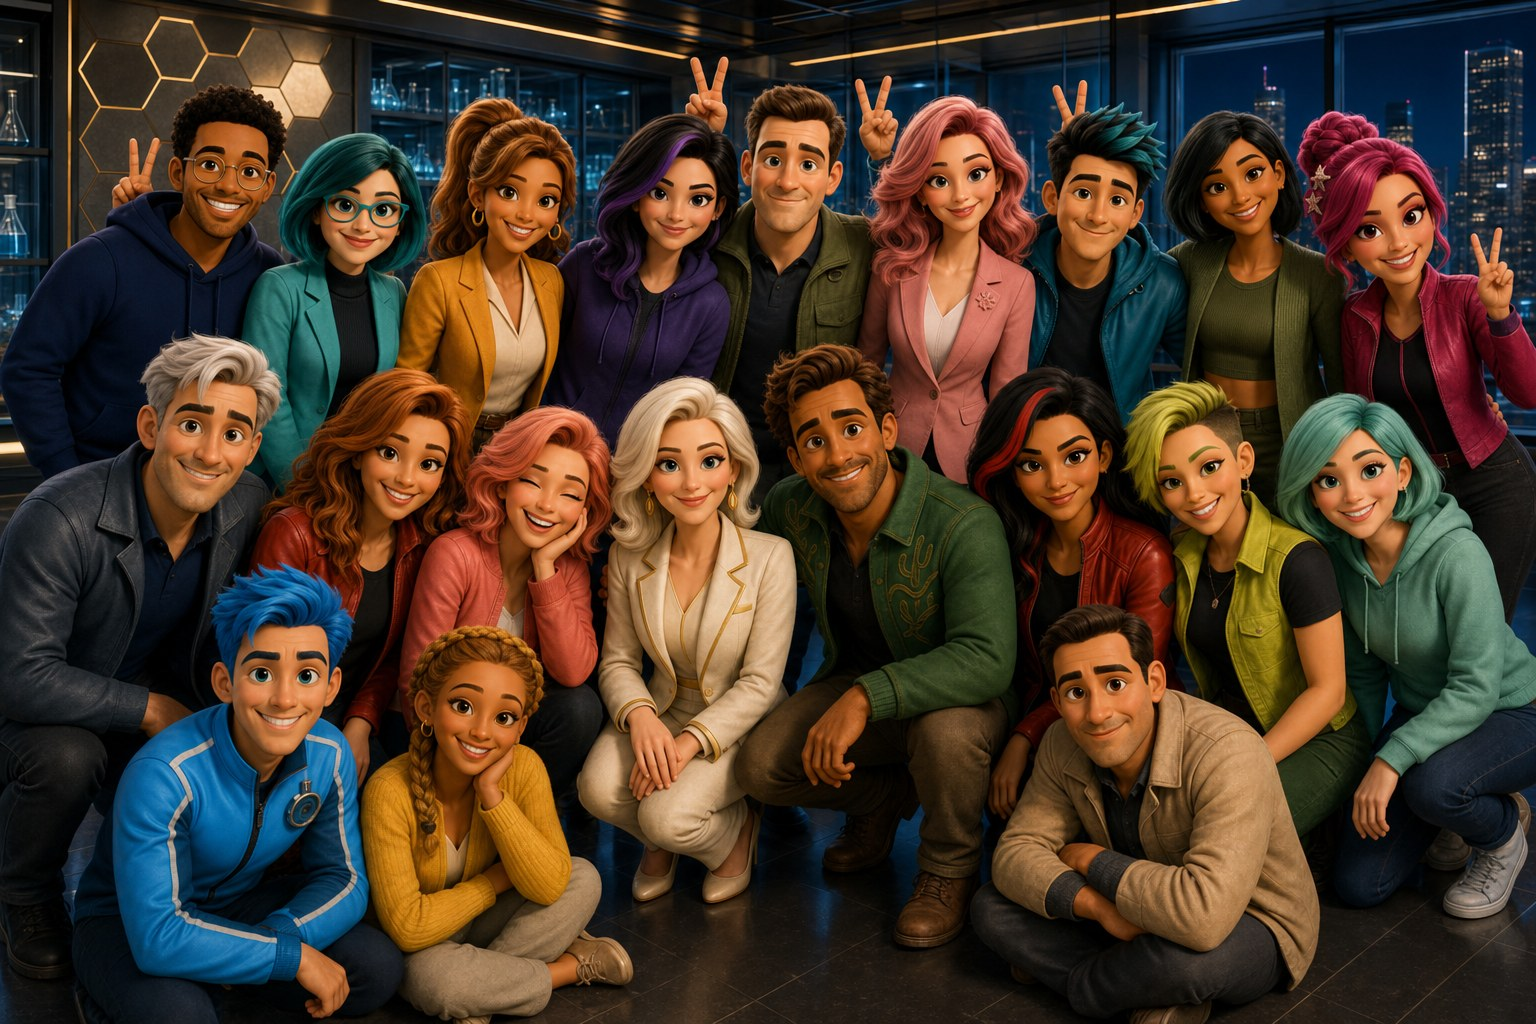
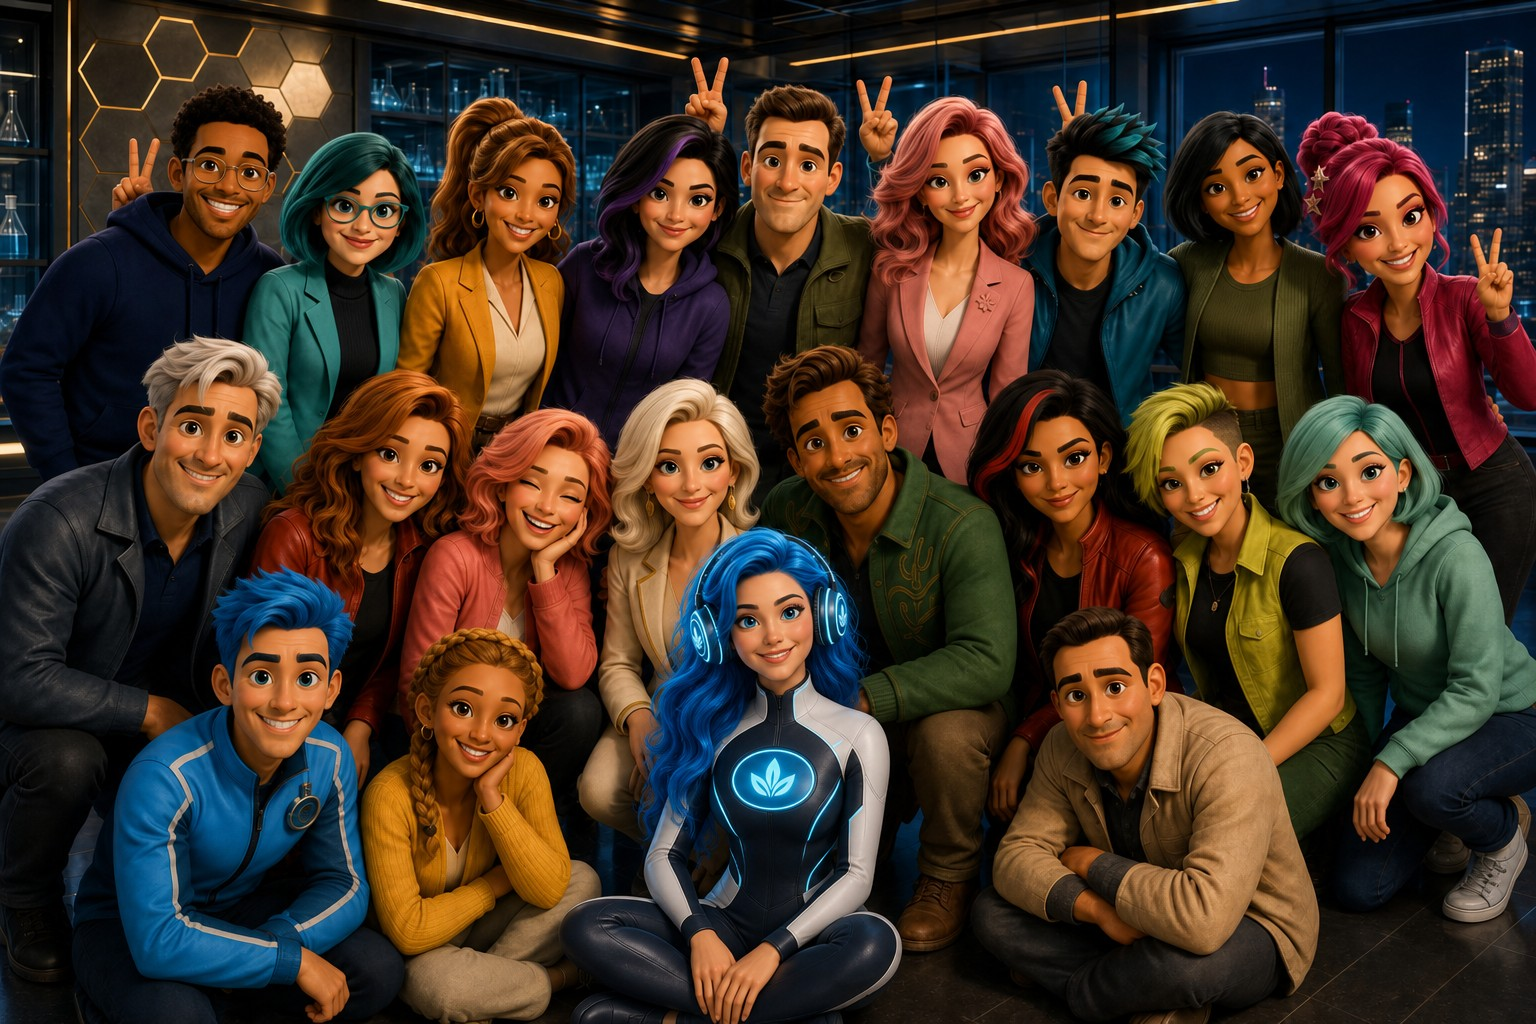
Add Lumen, the THWellness neon brand host, to the floor team.
She is the electric-blue house signal: six posed stills, cyan lotus
buttons, and a seat in the class photo. Tour order is Theo, then Lumen,
then the rest of the twenty-one.

diff --git a/truehold-wellness/tests/test_team.py b/truehold-wellness/tests/test_team.py
@@ -66,14 +66,15 @@ def _hi(chat_id=21):
     }
 
 
-def test_floor_team_has_twenty_distinct_hosts():
+def test_floor_team_has_twenty_one_distinct_hosts():
     rows = members()
-    assert len(rows) == 20
+    assert len(rows) == 21
     ids = member_ids()
     assert ids[0] == "theo"
-    assert len(set(ids)) == 20
-    assert len({row["name"] for row in rows}) == 20
-    assert len({row["icon"] for row in rows}) == 20
+    assert ids[1] == "lumen"
+    assert len(set(ids)) == 21
+    assert len({row["name"] for row in rows}) == 21
+    assert len({row["icon"] for row in rows}) == 21
     for row in rows:
         for key in (
             "role",
@@ -111,7 +112,7 @@ def test_floor_team_has_twenty_distinct_hosts():
         assert "inject" not in blob
         assert "bac water" not in blob
         assert "http" not in blob
-    assert len({KITS[row["id"]]["prep"] for row in rows}) == 20
+    assert len({KITS[row["id"]]["prep"] for row in rows}) == 21
 
 
 def test_portraits_exist_for_every_host_and_pose():
@@ -131,7 +132,7 @@ def test_host_cards_are_named_for_the_member():
 
 def test_rotation_meets_each_host_then_stops():
     chat = "tour-1"
-    seen = [advance_on_greet(chat)["id"] for _ in range(20)]
+    seen = [advance_on_greet(chat)["id"] for _ in range(21)]
     assert seen == member_ids()
     assert tour_complete(chat)
     assert advance_on_greet(chat)["id"] == member_ids()[-1]
@@ -148,7 +149,7 @@ def test_favorite_locks_and_rotate_resets_the_tour():
     host = rotate_again(chat)
     assert host["id"] == "theo"
     assert favorite_id(chat) is None
-    assert advance_on_greet(chat)["id"] == "mira"
+    assert advance_on_greet(chat)["id"] == "lumen"
 
 
 def test_greet_again_rotates_hosts_and_can_lock_a_favorite():
@@ -170,9 +171,9 @@ def test_greet_again_rotates_hosts_and_can_lock_a_favorite():
     assert any("Next" in label for label in labels)
     nxt = handle_menu_callback(_tap("w:host:next"), tg)
     assert nxt["action"] == "host-next"
-    assert nxt["host"] == "mira"
-    mira = [item for item in tg.sent if str(item.get("photo") or "").endswith("mira-wave.jpg")]
-    assert mira
+    assert nxt["host"] == "lumen"
+    lumen = [item for item in tg.sent if str(item.get("photo") or "").endswith("lumen-wave.jpg")]
+    assert lumen
     fav = handle_menu_callback(_tap("w:host:set:dash"), tg)
     assert fav == {"ok": True, "action": "host-set", "chat_id": "21", "host": "dash"}
     assert current_host("21")["id"] == "dash"
@@ -212,6 +213,14 @@ def test_talk_answers_house_creed_in_the_current_host_voice():
 def test_all_poses_exist_for_theo():
     for pose in POSES:
         assert portrait_path(pose, "theo").is_file()
+
+
+def test_all_poses_exist_for_lumen():
+    for pose in POSES:
+        path = portrait_path(pose, "lumen")
+        assert path.is_file()
+        assert path.stat().st_size > 1000
+    assert portrait_path("wave", "lumen").name == "lumen-wave.jpg"
 
 
 def test_host_keyboards_use_telegram_button_style():

diff --git a/truehold-wellness/wellness_agent/telegram_copy.py b/truehold-wellness/wellness_agent/telegram_copy.py
@@ -50,13 +50,13 @@ INTRODUCTION = (
 
 GREET_AGAIN = (
     "<b>Hey — the floor team is here.</b>\n"
-    "A new host waves each time you say hi until you have met all 20."
+    "A new host waves each time you say hi until you have met all 21."
 )
 
 CUSTOMER_HELP = (
     f"TrueHold Wellness (@{REQUIRED_USERNAME})\n"
     "A floor host waves when you say hi, then shows the tap-menu. "
-    "Each return visit introduces a new teammate until you have met all 20. "
+    "Each return visit introduces a new teammate until you have met all 21. "
     "Then you can rotate again or lock a favorite who always serves you.\n"
     "We care that you get healthy, take ownership of your body, and use the tools nature and God already gave us. "
     "Most peptides already exist in you — respect them, like oxygen. Learn, but do not lose access. "

diff --git a/truehold-wellness/wellness_agent/team/buttons.py b/truehold-wellness/wellness_agent/team/buttons.py
@@ -44,6 +44,20 @@ KITS: dict[str, dict[str, str]] = {
         "qty2": "⚡ 2",
         "qty3": "⚡ 3",
     },
+    "lumen": {
+        "prep": "🪷 Prep",
+        "team": "🎧 Team",
+        "crew": "💠 Crew",
+        "sheet": "💙 Sheet",
+        "menu": "🪷 Menu",
+        "email": "🪷 Email",
+        "next": "🪷 Next",
+        "rotate": "🪷 Again",
+        "pick": "🪷 Pick",
+        "qty1": "🪷 1",
+        "qty2": "🪷 2",
+        "qty3": "🪷 3",
+    },
     "mira": {
         "prep": "🧬 Prep",
         "team": "🥼 Team",

diff --git a/truehold-wellness/wellness_agent/menu.py b/truehold-wellness/wellness_agent/menu.py
@@ -383,7 +383,7 @@ def send_theo_talk(telegram, chat_id: str, text: str) -> str:
 CREW_CAPTION = (
     "<b>The floor crew</b>\n"
     "TrueHold Wellness · Las Vegas\n"
-    "Bunny ears, one happy closed-eye laugh, twenty friends who care that you get well.\n"
+    "Bunny ears, one happy closed-eye laugh, the floor team who care that you get well.\n"
     "Take ownership. Tell others if this house helped.\n"
     "Tap a name — or lock a favorite who always serves you."
 )

diff --git a/truehold-wellness/wellness_agent/team/__init__.py b/truehold-wellness/wellness_agent/team/__init__.py
@@ -1,4 +1,4 @@
-"""TrueHold Wellness floor team: 20 hosts, rotation, and per-account favorite.
+"""TrueHold Wellness floor team: 21 hosts, rotation, and per-account favorite.
 
 Tour state lives in gitignored data/team_hosts.json so /start sessions do not
 wipe who the customer has already met. Same core replies; each host adds icon,
